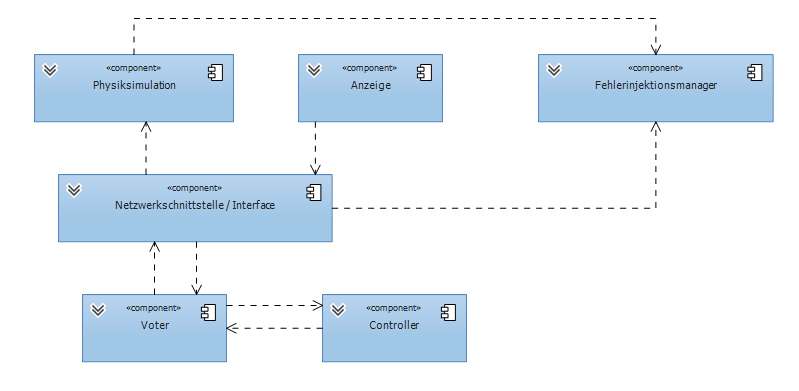
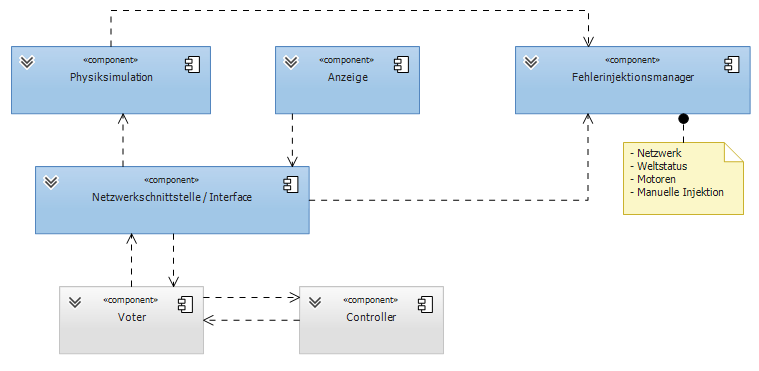
thesis: Kompontenenbilder neu

diff --git a/implementierung.tex b/implementierung.tex
@@ -9,6 +9,8 @@ auf bestimmten Arten miteinander kommunizieren und alle eine Funktion erf{\"{u}}
 	\caption{Implementierte Systembestandteile und ihre Beziehungen}
 	\label{fig:arch}
 \end{figure}
+\footnote{Hierbei sind die Bestandteile der Simulation an sich in Blau und die von den Studierenden zu erstellenden Teile in Grau
+dargestellt}
 
 
 Das Simulationsprogramm besteht aus mehreren Komponenten; deren Funktionalit{\"{a}}t wurde noch weiter in Klassen untergliedert. Allerdings

diff --git a/konzept.tex b/konzept.tex
@@ -63,6 +63,8 @@ Architektur haben.
 	\caption{Ben{\"{o}}tigte Systembestandteile und ihre Beziehungen}
 	\label{fig:arch_pre}
 \end{figure}
+\footnote{Hierbei sind die Bestandteile der Simulation an sich in Blau und die von den Studierenden zu erstellenden Teile in Grau
+dargestellt}
 
 Der Hauptbestandteil der Simulation ist die Physiksimulation. Sie ist daf{\"{u}}r zust{\"{a}}ndig
 das sich die Roboter bewegen, betankt werden k{\"{o}}nnen, muss Informationen {\"{u}}ber den
